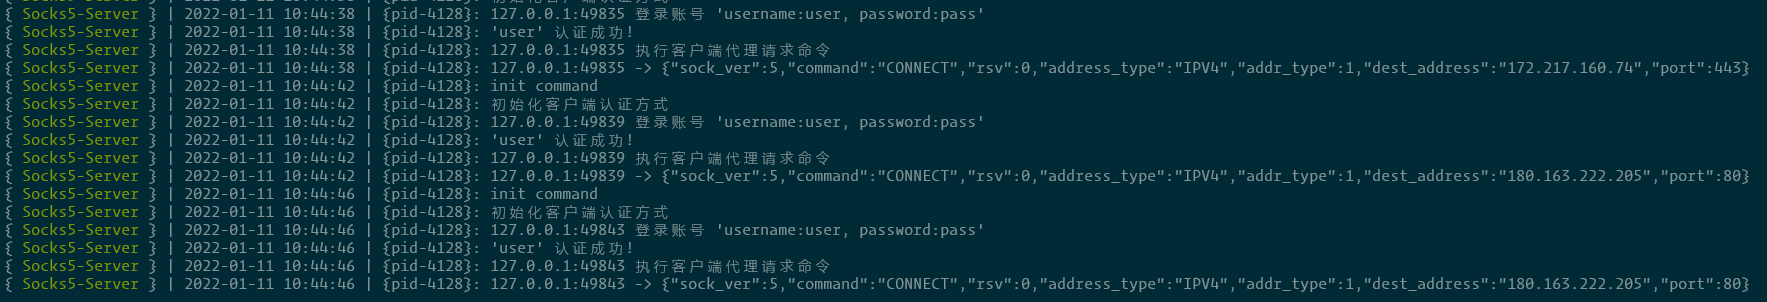
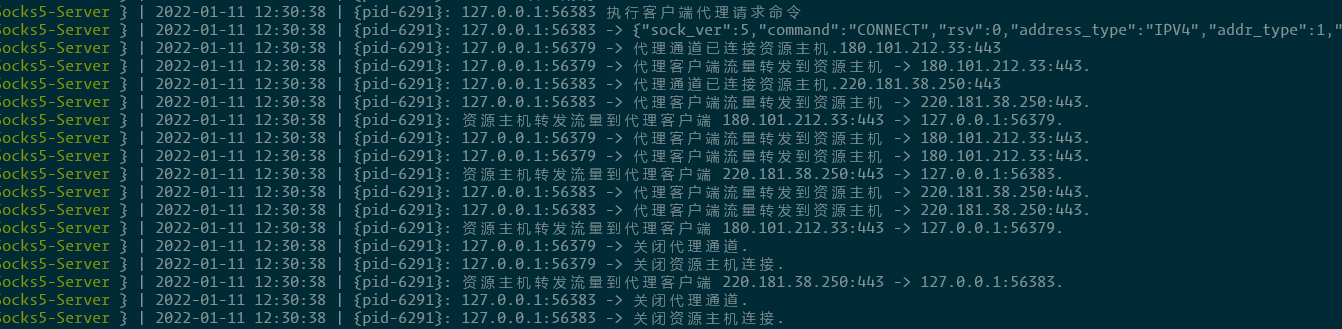
fixed

Changed region(s): [[0.0, 0.0, 1.0, 1.0]]

diff --git a/start_socks5.php b/start_socks5.php
@@ -41,7 +41,7 @@ $worker->onConnect = function (TcpConnection $connection) {
 };
 
 $worker->onMessage = function (TcpConnection $connection, $message) {
-    Worker::debug($connection->getClientIP() . ":" . $connection->getClientPort() . " -> " . $message);
+    Worker::debug($connection->getRemoteAddress() . " -> " . $message);
     $message = json_decode($message, true);
     if (!$message) {
         $connection->close(
@@ -60,14 +60,19 @@ $worker->onMessage = function (TcpConnection $connection, $message) {
                 $connection->send(
                     new MessageSock(
                         Command::COMMAND_CONNECT_SUCCESS,
-                        $connection->getClientIP(),
-                        $connection->getClientPort(),
+                        $connection->getRemoteHost(),
+                        $connection->getRemotePort(),
                         (int)$message['addr_type'],
                     )
                 );
+                Worker::debug($connection->getRemoteAddress() . " -> 代理通道已连接资源主机.".$proxyClient->getRemoteAddress());
 
                 $proxyClient->onMessage = function (AsyncTcpConnection $proxyClient, $data) use ($connection) {
                     $connection->send($data);
+                    Worker::debug(
+                        "资源主机转发流量到代理客户端 ".
+                        $proxyClient->getRemoteAddress() . " -> " . $connection->getRemoteAddress().'.'
+                    );
                 };
 
                 $proxyClient->onBufferFull = function (AsyncTcpConnection $proxyClient) {
@@ -80,6 +85,7 @@ $worker->onMessage = function (TcpConnection $connection, $message) {
 
                 $connection->onMessage = function (TcpConnection $connection, $data) use ($proxyClient) {
                     $proxyClient->send($data);
+                    Worker::debug($connection->getRemoteAddress()." -> 代理客户端流量转发到资源主机 -> ".$proxyClient->getRemoteAddress().".");
                 };
                 $connection->onBufferFull = function (TcpConnection $connection) {
                     $connection->pauseRecv();
@@ -90,10 +96,12 @@ $worker->onMessage = function (TcpConnection $connection, $message) {
 
                 $connection->onClose = function ($connection) use ($proxyClient) {
                     $proxyClient->close();
+                    Worker::debug($connection->getRemoteAddress() . " -> 关闭资源主机连接.");
                 };
 
                 $proxyClient->onClose = function ($proxyClient) use ($connection) {
                     $connection->close();
+                    Worker::debug($connection->getRemoteAddress() . " -> 关闭代理通道.");
                 };
             };
 

diff --git a/TcpConnection.php b/TcpConnection.php
@@ -534,29 +534,21 @@ class TcpConnection
     }
 
     /**
-     * 获取客户端IP地址
+     * 目标主机
      * @return string
      */
-    public function getClientIP(): string
+    public function getRemoteHost(): string
     {
-        $remoteAddress = parse_url($this->_remoteAddress, PHP_URL_HOST);
-        if (is_string($remoteAddress)) {
-            return $remoteAddress;
-        }
-        return 'N/A';
+        return $remote_port = \parse_url($this->_remoteAddress, PHP_URL_HOST);
     }
 
     /**
-     * 获取客户端端口号
+     * 目标主机端口
      * @return int
      */
-    public function getClientPort(): int
+    public function getRemotePort(): int
     {
-        $remotePort = parse_url($this->_remoteAddress, PHP_URL_PORT);
-        if (is_int($remotePort) && $remotePort > 0) {
-            return $remotePort;
-        }
-        return 0;
+        return (int)$remote_port = \parse_url($this->_remoteAddress, PHP_URL_PORT);
     }
 
     /**

diff --git a/Connection/AsyncTcpConnection.php b/Connection/AsyncTcpConnection.php
@@ -204,11 +204,7 @@ class AsyncTcpConnection extends TcpConnection
      */
     public function getRemoteHost(): string
     {
-        $remote_host = \parse_url($this->_remoteAddress, PHP_URL_HOST);
-        if (\is_string($remote_host)) {
-            return $remote_host;
-        }
-        return 'N/A';
+        return $remote_port = \parse_url($this->_remoteAddress, PHP_URL_HOST);
     }
 
     /**
@@ -217,10 +213,6 @@ class AsyncTcpConnection extends TcpConnection
      */
     public function getRemotePort(): int
     {
-        $remote_port = \parse_url($this->_remoteAddress, PHP_URL_PORT);
-        if (\is_int($remote_port) && $remote_port > 0) {
-            return $remote_port;
-        }
-        return 0;
+        return (int)$remote_port = \parse_url($this->_remoteAddress, PHP_URL_PORT);
     }
 }

diff --git a/Protocols/Command/RegisterRunner.php b/Protocols/Command/RegisterRunner.php
@@ -22,14 +22,12 @@ class RegisterRunner
 
     public static function run(string $buffer, TcpConnection $connection): int
     {
-        if (!isset(self::$registerCommands[$connection->state])) {
+        $command = self::$registerCommands[$connection->state] ?? UnknownCommand::COMMAND;
+
+        if (!is_a($command, AbstractCommand::class, true)) {
             $connection->state = UnknownCommand::COMMAND;
         }
-        $command = self::$registerCommands[$connection->state];
-        if (!$command instanceof AbstractCommand) {
-//            var_dump($command);
-            $connection->state = UnknownCommand::COMMAND;
-        }
+
         return $len = call_user_func([$command, 'run'], $buffer, $connection);
     }
 }

diff --git a/Protocols/Command/GetRequestLenCommand.php b/Protocols/Command/GetRequestLenCommand.php
@@ -16,7 +16,7 @@ class GetRequestLenCommand extends AbstractCommand
 
     public function run(string $buffer, TcpConnection $connection): int
     {
-        Worker::debug($connection->getClientIP() . ":" . $connection->getClientPort() . " 执行客户端代理请求命令");
+        Worker::debug($connection->getRemoteAddress() . " 执行客户端代理请求命令");
 
         if (strlen($buffer) < 7) {
             $connection->close(new MessageClosed(Command::COMMAND_SERVER_ERROR, '0.0.0.0', '0'));

diff --git a/Protocols/Command/PasswordAuthCommand.php b/Protocols/Command/PasswordAuthCommand.php
@@ -40,7 +40,7 @@ class PasswordAuthCommand extends AbstractCommand
         $password_len = ord($buffer[$offset]);
         $password = substr($buffer, $offset, $password_len);
 
-        Worker::debug($connection->getClientIP() . ":" . $connection->getClientPort() . " 登录账号 'username:{$username}, password:{$password}'");
+        Worker::debug($connection->getRemoteAddress() . " 登录账号 'username:{$username}, password:{$password}'");
 
         $auth = $connection->onSocks5Auth;
 
